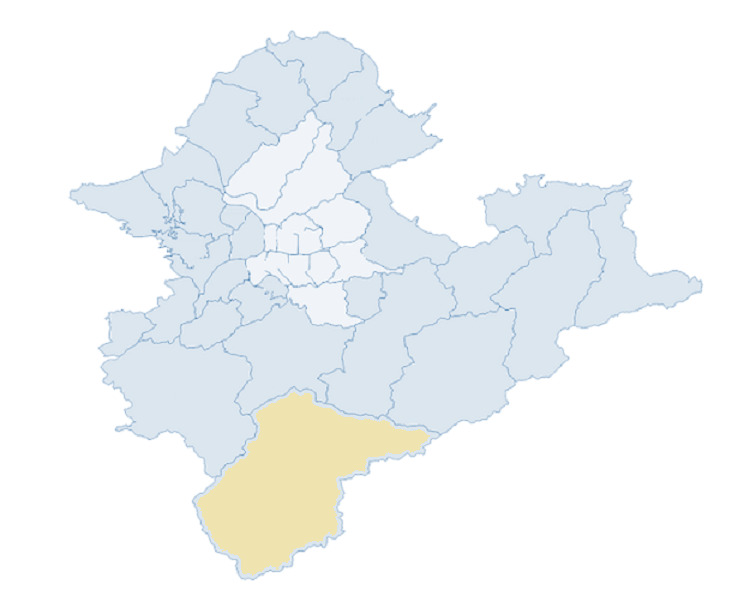
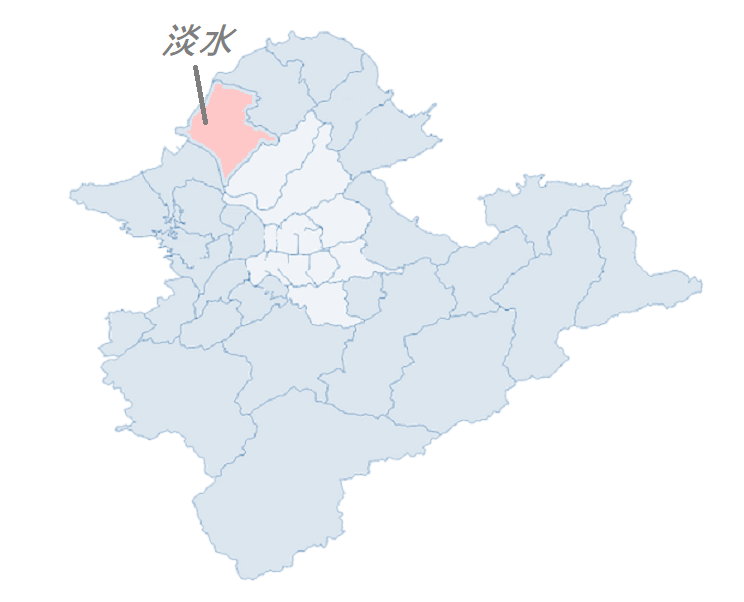
修改地圖前台首頁圖片(完成)

Changed region(s): [[0.2473, 0.6578, 0.5874, 0.9568], [0.2164, 0.0299, 0.371, 0.299]]

diff --git a/src/main/java/com/soeasy/controller/adminController/adminManage/AdminSportMap.java b/src/main/java/com/soeasy/controller/adminController/adminManage/AdminSportMap.java
@@ -96,12 +96,12 @@ public class AdminSportMap {
 	public String showEmptyForm(Model model) {
 	SportMapBean sportMapBean = new SportMapBean();
 	//預設表單資料
-	sportMapBean.setSportMapName("松山運動中心");
-	sportMapBean.setSportMapAddress("105台北市松山區敦化北路1號");
-	sportMapBean.setSportMapInfo("為臺北市第9座啟用的運動中心，自98年11月1日開幕。前身為聽障奧運的比賽場地。中心規劃有體適能健身中心、舞蹈教室，還有兩座游泳池，一座可供民眾休閒使用，另一座是台北市唯一可以作跳水、水中芭蕾訓練使用的游泳池，也可以從事室內水 上課程，如：獨木舟等。");
+	sportMapBean.setSportMapName("新店國民運動中心");
+	sportMapBean.setSportMapAddress("231新北市新店區北新路一段88巷12號");
+	sportMapBean.setSportMapInfo("由長佳機電工程股份有限公司取得OT經營權，本中心鄰近捷運綠線(新店區公所)，除了擁有25M游泳池、體適能中心、綜合球場..之外，更增設[兒童體操專門教室]，期望打造兒童運動的安全環境，並提供市民一個健康休閒的新去處");
 	sportMapBean.setSportMapScore(5);
 //	sportMapBean.setSportMapCategory(1);
-	sportMapBean.setSportMapMap("<iframe src=\"https://www.google.com/maps/embed?pb=!1m18!1m12!1m3!1d3614.571645929474!2d121.54804231500653!3d25.04860698396554!2m3!1f0!2f0!3f0!3m2!1i1024!2i768!4f13.1!3m3!1m2!1s0x3442abc2e4069759%3A0x1ddb2333e456f746!2zMTA15Y-w5YyX5biC5p2-5bGx5Y2A5pWm5YyW5YyX6LevMeiZnw!5e0!3m2!1szh-TW!2stw!4v1624341149696!5m2!1szh-TW!2stw\" width=\"600\" height=\"450\" style=\"border:0;\" allowfullscreen=\"\" loading=\"lazy\"></iframe>");
+	sportMapBean.setSportMapMap("<iframe src=\"https://www.google.com/maps/embed?pb=!1m18!1m12!1m3!1d7233.937528051018!2d121.54247222964078!3d24.967177355169582!2m3!1f0!2f0!3f0!3m2!1i1024!2i768!4f13.1!3m3!1m2!1s0x34680192061b03d5%3A0x3c613171e5e81235!2z5paw5YyX5biC5paw5bqX5ZyL5rCR6YGL5YuV5Lit5b-D!5e0!3m2!1szh-TW!2stw!4v1625132585222!5m2!1szh-TW!2stw\" width=\"600\" height=\"450\" style=\"border:0;\" allowfullscreen=\"\" loading=\"lazy\"></iframe>");
 	model.addAttribute("sportMapBean", sportMapBean);
 			
 	return "admin/adminSportMap/adminAddSportMap";	
